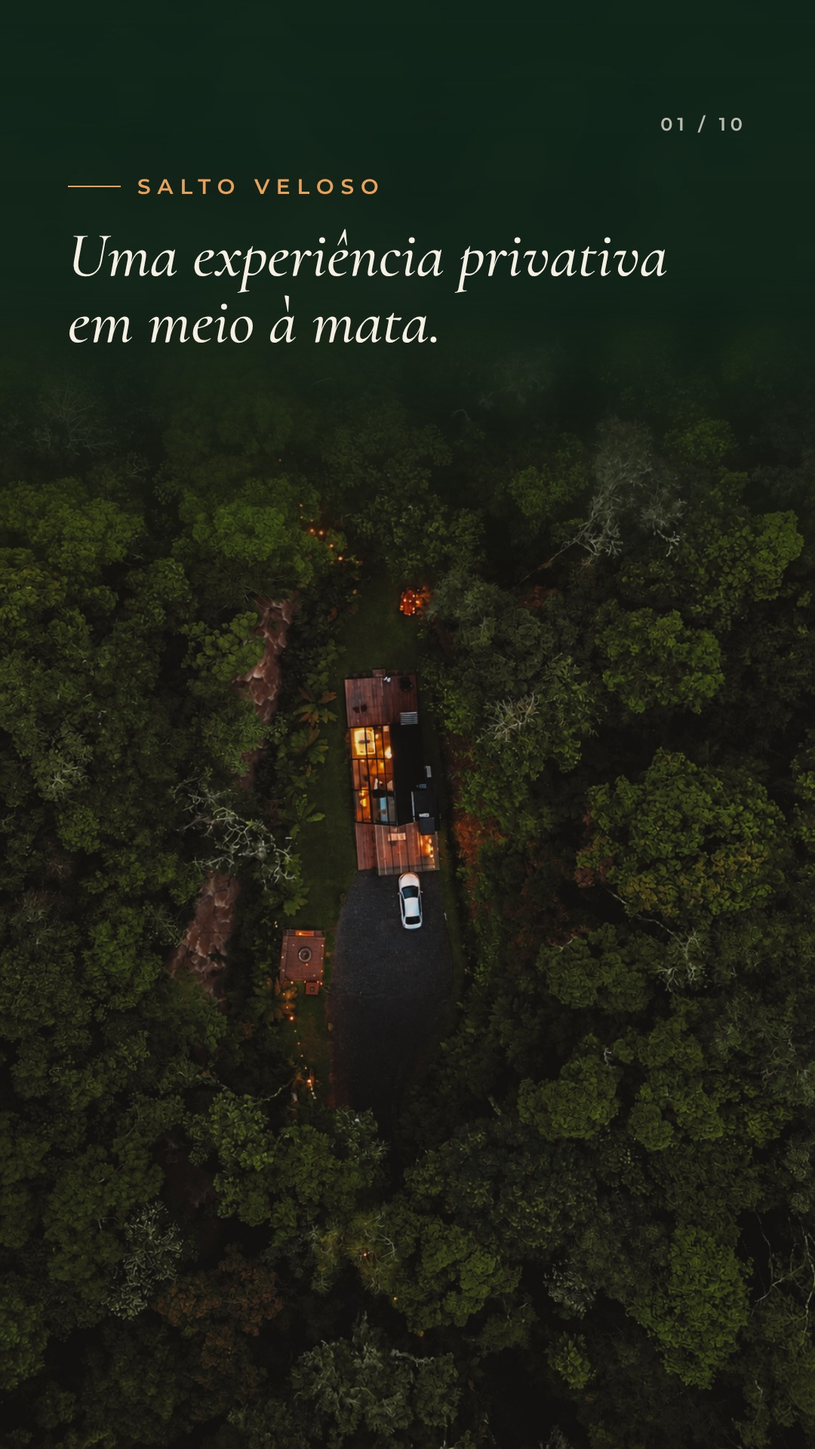
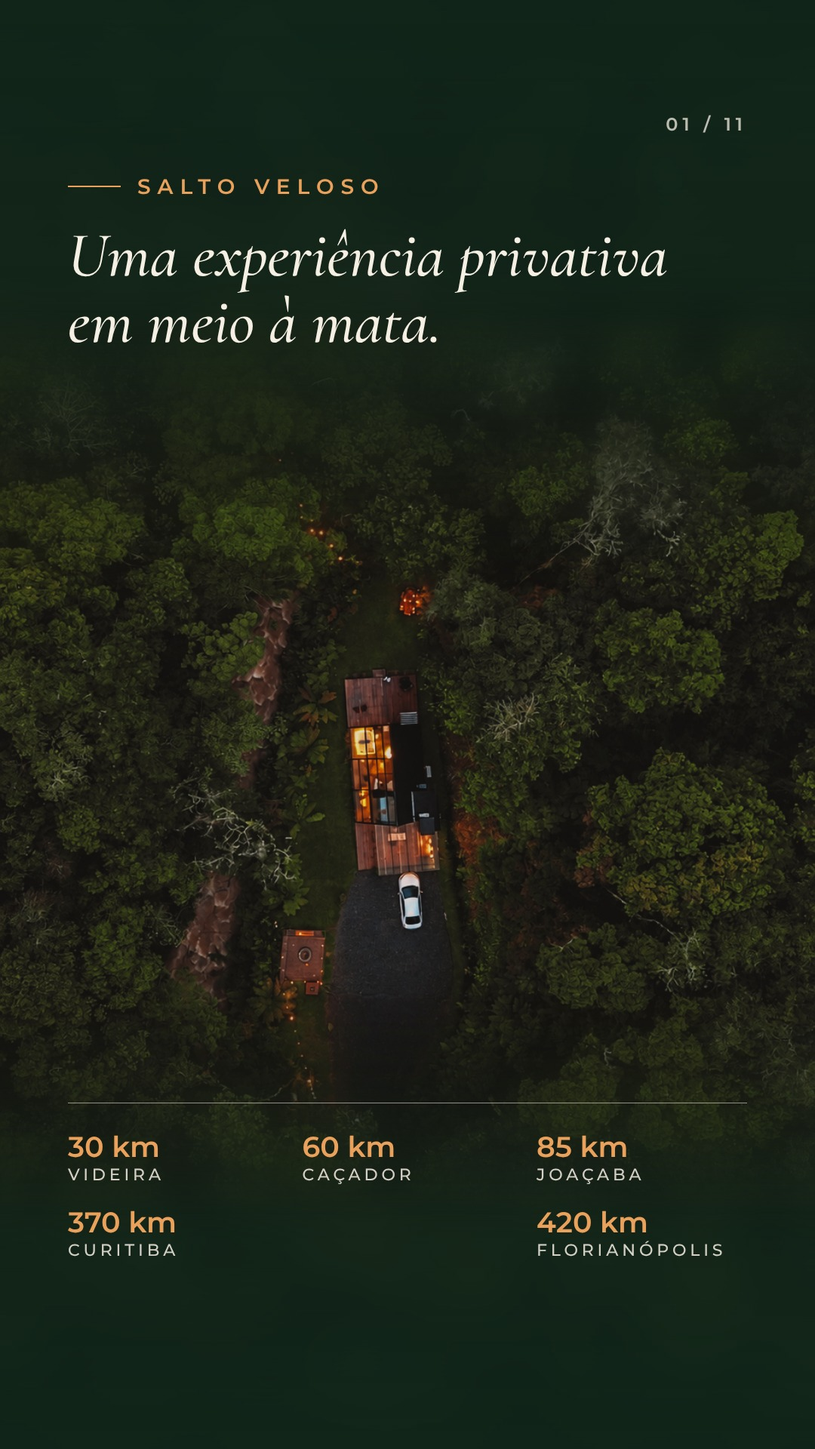
Stories: distâncias no 1, novo texto no 2, foto descida no 3, risoto e pizza separados, 10 sem CTA
Claude-Session: https://claude.ai/code/session_01DGaSmMXhRVQXAQK6gDFrFo

diff --git a/stories-cabana/html/story-11.html b/stories-cabana/html/story-11.html
@@ -1,0 +1,46 @@
+<!doctype html><html><head><meta charset="utf-8"><style>
+@import url('https://fonts.googleapis.com/css2?family=Cormorant+Garamond:ital,wght@0,500;1,500;1,600&family=Montserrat:wght@500;600&display=block');
+* { margin:0; padding:0; box-sizing:border-box; }
+html, body { width:1080px; height:1920px; overflow:hidden; background:#0f1a14; }
+.bg { position:absolute; inset:0; width:100%; height:100%; object-fit:cover; }
+
+/* faixa com desfoque verde */
+.blur { position:absolute; left:0; right:0; height:820px;
+  backdrop-filter: blur(26px) saturate(1.1); -webkit-backdrop-filter: blur(26px) saturate(1.1); }
+.blur.top { top:0;
+  background:linear-gradient(180deg, rgba(16,38,26,.92) 0%, rgba(16,38,26,.78) 45%, rgba(16,38,26,0) 100%);
+  -webkit-mask-image:linear-gradient(180deg,#000 0%,#000 50%,transparent 100%); mask-image:linear-gradient(180deg,#000 0%,#000 50%,transparent 100%); }
+.blur.low { bottom:0;
+  background:linear-gradient(0deg, rgba(16,38,26,.92) 0%, rgba(16,38,26,.78) 45%, rgba(16,38,26,0) 100%);
+  -webkit-mask-image:linear-gradient(0deg,#000 0%,#000 50%,transparent 100%); mask-image:linear-gradient(0deg,#000 0%,#000 50%,transparent 100%); }
+
+.box { position:absolute; left:90px; right:90px; color:#F6EFE4; }
+.box.top { top:230px; }
+.box.low { bottom:300px; }
+.kicker { font-family:'Montserrat',sans-serif; font-weight:600; font-size:28px; letter-spacing:.32em;
+  text-transform:uppercase; color:#E9A15B; display:flex; align-items:center; gap:22px; margin-bottom:30px; }
+.kicker::before { content:''; width:70px; height:2px; background:#E9A15B; }
+h1 { font-family:'Cormorant Garamond',serif; font-style:italic; font-weight:500; font-size:84px; line-height:1.05; }
+p { font-family:'Montserrat',sans-serif; font-weight:500; font-size:34px; line-height:1.4;
+  margin-top:30px; color:rgba(246,239,228,.88); }
+.count { position:absolute; top:150px; right:90px; font-family:'Montserrat',sans-serif; font-weight:600;
+  font-size:24px; letter-spacing:.25em; color:rgba(246,239,228,.75); }
+.cta { display:inline-flex; margin-top:38px; padding:22px 38px; border-radius:60px; background:#E9A15B;
+  color:#1B140D; font-family:'Montserrat',sans-serif; font-weight:600; font-size:28px;
+  letter-spacing:.14em; text-transform:uppercase; }
+.rodape { position:absolute; left:90px; right:90px; bottom:250px; color:#F6EFE4; }
+.rodape .linha { height:1px; background:rgba(246,239,228,.55); margin-bottom:34px; }
+.rodape .cidades { display:flex; flex-wrap:wrap; justify-content:space-between; row-gap:26px; }
+.rodape .c { width:31%; font-family:'Montserrat',sans-serif; }
+.rodape .c b { display:block; font-weight:600; font-size:38px; color:#E9A15B; }
+.rodape .c span { font-weight:500; font-size:22px; letter-spacing:.22em; text-transform:uppercase; color:rgba(246,239,228,.85); }
+.inset { position:absolute; left:60px; bottom:170px; width:290px; height:290px; object-fit:cover;
+  border-radius:10px; border:6px solid #F6EFE4; box-shadow:0 18px 50px rgba(0,0,0,.45); transform:rotate(-3deg); }
+</style></head><body>
+<img class="bg" src="file:///home/user/Jean-Radeski-/stories-cabana/fotos/banheira.jpg" style="object-position:center 70%;transform:translateY(0px)">
+
+<div class="blur top" style="height:820px"></div>
+
+<div class="count">11 / 11</div>
+<div class="box top"><div class="kicker">Só vocês dois</div><h1>Entre samambaias,<br>sem pressa.</h1></div>
+</body></html>

diff --git a/stories-cabana/html/story-01.html b/stories-cabana/html/story-01.html
@@ -28,12 +28,19 @@ p { font-family:'Montserrat',sans-serif; font-weight:500; font-size:34px; line-h
 .cta { display:inline-flex; margin-top:38px; padding:22px 38px; border-radius:60px; background:#E9A15B;
   color:#1B140D; font-family:'Montserrat',sans-serif; font-weight:600; font-size:28px;
   letter-spacing:.14em; text-transform:uppercase; }
+.rodape { position:absolute; left:90px; right:90px; bottom:250px; color:#F6EFE4; }
+.rodape .linha { height:1px; background:rgba(246,239,228,.55); margin-bottom:34px; }
+.rodape .cidades { display:flex; flex-wrap:wrap; justify-content:space-between; row-gap:26px; }
+.rodape .c { width:31%; font-family:'Montserrat',sans-serif; }
+.rodape .c b { display:block; font-weight:600; font-size:38px; color:#E9A15B; }
+.rodape .c span { font-weight:500; font-size:22px; letter-spacing:.22em; text-transform:uppercase; color:rgba(246,239,228,.85); }
 .inset { position:absolute; left:60px; bottom:170px; width:290px; height:290px; object-fit:cover;
   border-radius:10px; border:6px solid #F6EFE4; box-shadow:0 18px 50px rgba(0,0,0,.45); transform:rotate(-3deg); }
 </style></head><body>
-<img class="bg" src="file:///home/user/Jean-Radeski-/stories-cabana/fotos/drone.jpg" style="object-position:center">
+<img class="bg" src="file:///home/user/Jean-Radeski-/stories-cabana/fotos/drone.jpg" style="object-position:center;transform:translateY(0px)">
+<div class="blur low" style="height:620px"></div><div class="rodape"><div class="linha"></div><div class="cidades"><div class="c"><b>30 km</b><span>Videira</span></div><div class="c"><b>60 km</b><span>Caçador</span></div><div class="c"><b>85 km</b><span>Joaçaba</span></div><div class="c"><b>370 km</b><span>Curitiba</span></div><div class="c"><b>420 km</b><span>Florianópolis</span></div></div></div>
 <div class="blur top" style="height:820px"></div>
 
-<div class="count">01 / 10</div>
+<div class="count">01 / 11</div>
 <div class="box top"><div class="kicker">Salto Veloso</div><h1>Uma experiência privativa<br>em meio à mata.</h1></div>
 </body></html>

diff --git a/stories-cabana/html/story-10.html b/stories-cabana/html/story-10.html
@@ -28,12 +28,19 @@ p { font-family:'Montserrat',sans-serif; font-weight:500; font-size:34px; line-h
 .cta { display:inline-flex; margin-top:38px; padding:22px 38px; border-radius:60px; background:#E9A15B;
   color:#1B140D; font-family:'Montserrat',sans-serif; font-weight:600; font-size:28px;
   letter-spacing:.14em; text-transform:uppercase; }
+.rodape { position:absolute; left:90px; right:90px; bottom:250px; color:#F6EFE4; }
+.rodape .linha { height:1px; background:rgba(246,239,228,.55); margin-bottom:34px; }
+.rodape .cidades { display:flex; flex-wrap:wrap; justify-content:space-between; row-gap:26px; }
+.rodape .c { width:31%; font-family:'Montserrat',sans-serif; }
+.rodape .c b { display:block; font-weight:600; font-size:38px; color:#E9A15B; }
+.rodape .c span { font-weight:500; font-size:22px; letter-spacing:.22em; text-transform:uppercase; color:rgba(246,239,228,.85); }
 .inset { position:absolute; left:60px; bottom:170px; width:290px; height:290px; object-fit:cover;
   border-radius:10px; border:6px solid #F6EFE4; box-shadow:0 18px 50px rgba(0,0,0,.45); transform:rotate(-3deg); }
 </style></head><body>
-<img class="bg" src="file:///home/user/Jean-Radeski-/stories-cabana/fotos/banheira.jpg" style="object-position:center 70%">
+<img class="bg" src="file:///home/user/Jean-Radeski-/stories-cabana/fotos/spa-mata.jpg" style="object-position:center 70%;transform:translateY(0px)">
+
 <div class="blur top" style="height:820px"></div>
 
-<div class="count">10 / 10</div>
-<div class="box top"><div class="kicker">Só vocês dois</div><h1>Entre samambaias,<br>sem pressa.</h1><p>No próximo story: o tour completo</p><div class="cta">Toque pra ver &nbsp;→</div></div>
+<div class="count">10 / 11</div>
+<div class="box top"><div class="kicker">Spa na mata</div><h1>Ofurô e cama suspensa,<br>imerso na mata.</h1><p>Ao lado do rio, ao som das quedas d'água.</p></div>
 </body></html>

diff --git a/stories-cabana/html/story-07.html b/stories-cabana/html/story-07.html
@@ -28,12 +28,19 @@ p { font-family:'Montserrat',sans-serif; font-weight:500; font-size:34px; line-h
 .cta { display:inline-flex; margin-top:38px; padding:22px 38px; border-radius:60px; background:#E9A15B;
   color:#1B140D; font-family:'Montserrat',sans-serif; font-weight:600; font-size:28px;
   letter-spacing:.14em; text-transform:uppercase; }
+.rodape { position:absolute; left:90px; right:90px; bottom:250px; color:#F6EFE4; }
+.rodape .linha { height:1px; background:rgba(246,239,228,.55); margin-bottom:34px; }
+.rodape .cidades { display:flex; flex-wrap:wrap; justify-content:space-between; row-gap:26px; }
+.rodape .c { width:31%; font-family:'Montserrat',sans-serif; }
+.rodape .c b { display:block; font-weight:600; font-size:38px; color:#E9A15B; }
+.rodape .c span { font-weight:500; font-size:22px; letter-spacing:.22em; text-transform:uppercase; color:rgba(246,239,228,.85); }
 .inset { position:absolute; left:60px; bottom:170px; width:290px; height:290px; object-fit:cover;
   border-radius:10px; border:6px solid #F6EFE4; box-shadow:0 18px 50px rgba(0,0,0,.45); transform:rotate(-3deg); }
 </style></head><body>
-<img class="bg" src="file:///home/user/Jean-Radeski-/stories-cabana/fotos/pizza.jpg" style="object-position:center 75%">
+<img class="bg" src="file:///home/user/Jean-Radeski-/stories-cabana/fotos/pizza.jpg" style="object-position:center 75%;transform:translateY(0px)">
+
 <div class="blur top" style="height:820px"></div>
-<img class="inset" src="file:///home/user/Jean-Radeski-/stories-cabana/fotos/risoto.jpg">
-<div class="count">07 / 10</div>
-<div class="box top"><div class="kicker">Cardápio da cabana</div><h1>Opções congeladas, deliciosas<br>e prontas para fazer.</h1></div>
+
+<div class="count">07 / 11</div>
+<div class="box top"><div class="kicker">Cardápio da cabana</div><h1>Opções congeladas<br>e deliciosas.</h1></div>
 </body></html>

diff --git a/stories-cabana/html/story-09.html b/stories-cabana/html/story-09.html
@@ -28,12 +28,19 @@ p { font-family:'Montserrat',sans-serif; font-weight:500; font-size:34px; line-h
 .cta { display:inline-flex; margin-top:38px; padding:22px 38px; border-radius:60px; background:#E9A15B;
   color:#1B140D; font-family:'Montserrat',sans-serif; font-weight:600; font-size:28px;
   letter-spacing:.14em; text-transform:uppercase; }
+.rodape { position:absolute; left:90px; right:90px; bottom:250px; color:#F6EFE4; }
+.rodape .linha { height:1px; background:rgba(246,239,228,.55); margin-bottom:34px; }
+.rodape .cidades { display:flex; flex-wrap:wrap; justify-content:space-between; row-gap:26px; }
+.rodape .c { width:31%; font-family:'Montserrat',sans-serif; }
+.rodape .c b { display:block; font-weight:600; font-size:38px; color:#E9A15B; }
+.rodape .c span { font-weight:500; font-size:22px; letter-spacing:.22em; text-transform:uppercase; color:rgba(246,239,228,.85); }
 .inset { position:absolute; left:60px; bottom:170px; width:290px; height:290px; object-fit:cover;
   border-radius:10px; border:6px solid #F6EFE4; box-shadow:0 18px 50px rgba(0,0,0,.45); transform:rotate(-3deg); }
 </style></head><body>
-<img class="bg" src="file:///home/user/Jean-Radeski-/stories-cabana/fotos/spa-mata.jpg" style="object-position:center 70%">
-<div class="blur top" style="height:820px"></div>
+<img class="bg" src="file:///home/user/Jean-Radeski-/stories-cabana/fotos/lareira.jpg" style="object-position:center 60%;transform:translateY(0px)">
 
-<div class="count">09 / 10</div>
-<div class="box top"><div class="kicker">Spa na mata</div><h1>Ofurô e cama suspensa,<br>imerso na mata.</h1><p>Ao lado do rio, ao som das quedas d'água.</p></div>
+<div class="blur low" style="height:620px"></div>
+
+<div class="count">09 / 11</div>
+<div class="box low"><div class="kicker">Lareira</div><h1>Detalhes que encantam.</h1></div>
 </body></html>

diff --git a/stories-cabana/html/story-02.html b/stories-cabana/html/story-02.html
@@ -28,12 +28,19 @@ p { font-family:'Montserrat',sans-serif; font-weight:500; font-size:34px; line-h
 .cta { display:inline-flex; margin-top:38px; padding:22px 38px; border-radius:60px; background:#E9A15B;
   color:#1B140D; font-family:'Montserrat',sans-serif; font-weight:600; font-size:28px;
   letter-spacing:.14em; text-transform:uppercase; }
+.rodape { position:absolute; left:90px; right:90px; bottom:250px; color:#F6EFE4; }
+.rodape .linha { height:1px; background:rgba(246,239,228,.55); margin-bottom:34px; }
+.rodape .cidades { display:flex; flex-wrap:wrap; justify-content:space-between; row-gap:26px; }
+.rodape .c { width:31%; font-family:'Montserrat',sans-serif; }
+.rodape .c b { display:block; font-weight:600; font-size:38px; color:#E9A15B; }
+.rodape .c span { font-weight:500; font-size:22px; letter-spacing:.22em; text-transform:uppercase; color:rgba(246,239,228,.85); }
 .inset { position:absolute; left:60px; bottom:170px; width:290px; height:290px; object-fit:cover;
   border-radius:10px; border:6px solid #F6EFE4; box-shadow:0 18px 50px rgba(0,0,0,.45); transform:rotate(-3deg); }
 </style></head><body>
-<img class="bg" src="file:///home/user/Jean-Radeski-/stories-cabana/fotos/ponte.jpg" style="object-position:center 40%">
+<img class="bg" src="file:///home/user/Jean-Radeski-/stories-cabana/fotos/ponte.jpg" style="object-position:center 40%;transform:translateY(0px)">
+
 <div class="blur low" style="height:820px"></div>
 
-<div class="count">02 / 10</div>
-<div class="box low"><div class="kicker">O caminho</div><h1>Atravesse a ponte.</h1><p>O mundo lá fora fica pra trás.</p></div>
+<div class="count">02 / 11</div>
+<div class="box low"><div class="kicker">O caminho</div><h1>Atravesse a ponte.</h1><p>Todo o ambiente cercado pela natureza.</p></div>
 </body></html>

diff --git a/stories-cabana/html/story-08.html b/stories-cabana/html/story-08.html
@@ -28,12 +28,19 @@ p { font-family:'Montserrat',sans-serif; font-weight:500; font-size:34px; line-h
 .cta { display:inline-flex; margin-top:38px; padding:22px 38px; border-radius:60px; background:#E9A15B;
   color:#1B140D; font-family:'Montserrat',sans-serif; font-weight:600; font-size:28px;
   letter-spacing:.14em; text-transform:uppercase; }
+.rodape { position:absolute; left:90px; right:90px; bottom:250px; color:#F6EFE4; }
+.rodape .linha { height:1px; background:rgba(246,239,228,.55); margin-bottom:34px; }
+.rodape .cidades { display:flex; flex-wrap:wrap; justify-content:space-between; row-gap:26px; }
+.rodape .c { width:31%; font-family:'Montserrat',sans-serif; }
+.rodape .c b { display:block; font-weight:600; font-size:38px; color:#E9A15B; }
+.rodape .c span { font-weight:500; font-size:22px; letter-spacing:.22em; text-transform:uppercase; color:rgba(246,239,228,.85); }
 .inset { position:absolute; left:60px; bottom:170px; width:290px; height:290px; object-fit:cover;
   border-radius:10px; border:6px solid #F6EFE4; box-shadow:0 18px 50px rgba(0,0,0,.45); transform:rotate(-3deg); }
 </style></head><body>
-<img class="bg" src="file:///home/user/Jean-Radeski-/stories-cabana/fotos/lareira.jpg" style="object-position:center 60%">
-<div class="blur low" style="height:620px"></div>
+<img class="bg" src="file:///home/user/Jean-Radeski-/stories-cabana/fotos/risoto.jpg" style="object-position:center 60%;transform:translateY(0px)">
 
-<div class="count">08 / 10</div>
-<div class="box low"><div class="kicker">Lareira</div><h1>Detalhes que encantam.</h1></div>
+<div class="blur top" style="height:820px"></div>
+
+<div class="count">08 / 11</div>
+<div class="box top"><div class="kicker">Praticidade</div><h1>Opções práticas e<br>prontas para fazer.</h1></div>
 </body></html>

diff --git a/stories-cabana/html/story-03.html b/stories-cabana/html/story-03.html
@@ -28,12 +28,19 @@ p { font-family:'Montserrat',sans-serif; font-weight:500; font-size:34px; line-h
 .cta { display:inline-flex; margin-top:38px; padding:22px 38px; border-radius:60px; background:#E9A15B;
   color:#1B140D; font-family:'Montserrat',sans-serif; font-weight:600; font-size:28px;
   letter-spacing:.14em; text-transform:uppercase; }
+.rodape { position:absolute; left:90px; right:90px; bottom:250px; color:#F6EFE4; }
+.rodape .linha { height:1px; background:rgba(246,239,228,.55); margin-bottom:34px; }
+.rodape .cidades { display:flex; flex-wrap:wrap; justify-content:space-between; row-gap:26px; }
+.rodape .c { width:31%; font-family:'Montserrat',sans-serif; }
+.rodape .c b { display:block; font-weight:600; font-size:38px; color:#E9A15B; }
+.rodape .c span { font-weight:500; font-size:22px; letter-spacing:.22em; text-transform:uppercase; color:rgba(246,239,228,.85); }
 .inset { position:absolute; left:60px; bottom:170px; width:290px; height:290px; object-fit:cover;
   border-radius:10px; border:6px solid #F6EFE4; box-shadow:0 18px 50px rgba(0,0,0,.45); transform:rotate(-3deg); }
 </style></head><body>
-<img class="bg" src="file:///home/user/Jean-Radeski-/stories-cabana/fotos/cabana-noite.jpg" style="object-position:center 60%">
+<img class="bg" src="file:///home/user/Jean-Radeski-/stories-cabana/fotos/cabana-noite.jpg" style="object-position:center 60%;transform:translateY(200px)">
+
 <div class="blur top" style="height:820px"></div>
 
-<div class="count">03 / 10</div>
+<div class="count">03 / 11</div>
 <div class="box top"><div class="kicker">Arquitetura A-frame</div><h1>Moderna, em vidro,<br>refletindo suas luzes quentes.</h1></div>
 </body></html>

diff --git a/stories-cabana/html/story-04.html b/stories-cabana/html/story-04.html
@@ -28,12 +28,19 @@ p { font-family:'Montserrat',sans-serif; font-weight:500; font-size:34px; line-h
 .cta { display:inline-flex; margin-top:38px; padding:22px 38px; border-radius:60px; background:#E9A15B;
   color:#1B140D; font-family:'Montserrat',sans-serif; font-weight:600; font-size:28px;
   letter-spacing:.14em; text-transform:uppercase; }
+.rodape { position:absolute; left:90px; right:90px; bottom:250px; color:#F6EFE4; }
+.rodape .linha { height:1px; background:rgba(246,239,228,.55); margin-bottom:34px; }
+.rodape .cidades { display:flex; flex-wrap:wrap; justify-content:space-between; row-gap:26px; }
+.rodape .c { width:31%; font-family:'Montserrat',sans-serif; }
+.rodape .c b { display:block; font-weight:600; font-size:38px; color:#E9A15B; }
+.rodape .c span { font-weight:500; font-size:22px; letter-spacing:.22em; text-transform:uppercase; color:rgba(246,239,228,.85); }
 .inset { position:absolute; left:60px; bottom:170px; width:290px; height:290px; object-fit:cover;
   border-radius:10px; border:6px solid #F6EFE4; box-shadow:0 18px 50px rgba(0,0,0,.45); transform:rotate(-3deg); }
 </style></head><body>
-<img class="bg" src="file:///home/user/Jean-Radeski-/stories-cabana/fotos/cama.jpg" style="object-position:center 60%">
+<img class="bg" src="file:///home/user/Jean-Radeski-/stories-cabana/fotos/cama.jpg" style="object-position:center 60%;transform:translateY(0px)">
+
 <div class="blur top" style="height:820px"></div>
 
-<div class="count">04 / 10</div>
+<div class="count">04 / 11</div>
 <div class="box top"><div class="kicker">Futon com massagem</div><h1>Um futon perfeito, com vista<br>privilegiada para a mata.</h1></div>
 </body></html>

diff --git a/stories-cabana/html/story-06.html b/stories-cabana/html/story-06.html
@@ -28,12 +28,19 @@ p { font-family:'Montserrat',sans-serif; font-weight:500; font-size:34px; line-h
 .cta { display:inline-flex; margin-top:38px; padding:22px 38px; border-radius:60px; background:#E9A15B;
   color:#1B140D; font-family:'Montserrat',sans-serif; font-weight:600; font-size:28px;
   letter-spacing:.14em; text-transform:uppercase; }
+.rodape { position:absolute; left:90px; right:90px; bottom:250px; color:#F6EFE4; }
+.rodape .linha { height:1px; background:rgba(246,239,228,.55); margin-bottom:34px; }
+.rodape .cidades { display:flex; flex-wrap:wrap; justify-content:space-between; row-gap:26px; }
+.rodape .c { width:31%; font-family:'Montserrat',sans-serif; }
+.rodape .c b { display:block; font-weight:600; font-size:38px; color:#E9A15B; }
+.rodape .c span { font-weight:500; font-size:22px; letter-spacing:.22em; text-transform:uppercase; color:rgba(246,239,228,.85); }
 .inset { position:absolute; left:60px; bottom:170px; width:290px; height:290px; object-fit:cover;
   border-radius:10px; border:6px solid #F6EFE4; box-shadow:0 18px 50px rgba(0,0,0,.45); transform:rotate(-3deg); }
 </style></head><body>
-<img class="bg" src="file:///home/user/Jean-Radeski-/stories-cabana/fotos/cozinha.jpg" style="object-position:center 70%">
+<img class="bg" src="file:///home/user/Jean-Radeski-/stories-cabana/fotos/cozinha.jpg" style="object-position:center 70%;transform:translateY(0px)">
+
 <div class="blur top" style="height:820px"></div>
 
-<div class="count">06 / 10</div>
+<div class="count">06 / 11</div>
 <div class="box top"><div class="kicker">Cozinha completa</div><h1>Para você não se<br>preocupar com nada.</h1></div>
 </body></html>

diff --git a/stories-cabana/html/story-05.html b/stories-cabana/html/story-05.html
@@ -28,12 +28,19 @@ p { font-family:'Montserrat',sans-serif; font-weight:500; font-size:34px; line-h
 .cta { display:inline-flex; margin-top:38px; padding:22px 38px; border-radius:60px; background:#E9A15B;
   color:#1B140D; font-family:'Montserrat',sans-serif; font-weight:600; font-size:28px;
   letter-spacing:.14em; text-transform:uppercase; }
+.rodape { position:absolute; left:90px; right:90px; bottom:250px; color:#F6EFE4; }
+.rodape .linha { height:1px; background:rgba(246,239,228,.55); margin-bottom:34px; }
+.rodape .cidades { display:flex; flex-wrap:wrap; justify-content:space-between; row-gap:26px; }
+.rodape .c { width:31%; font-family:'Montserrat',sans-serif; }
+.rodape .c b { display:block; font-weight:600; font-size:38px; color:#E9A15B; }
+.rodape .c span { font-weight:500; font-size:22px; letter-spacing:.22em; text-transform:uppercase; color:rgba(246,239,228,.85); }
 .inset { position:absolute; left:60px; bottom:170px; width:290px; height:290px; object-fit:cover;
   border-radius:10px; border:6px solid #F6EFE4; box-shadow:0 18px 50px rgba(0,0,0,.45); transform:rotate(-3deg); }
 </style></head><body>
-<img class="bg" src="file:///home/user/Jean-Radeski-/stories-cabana/fotos/hidro.jpg" style="object-position:center 30%">
+<img class="bg" src="file:///home/user/Jean-Radeski-/stories-cabana/fotos/hidro.jpg" style="object-position:center 30%;transform:translateY(0px)">
+
 <div class="blur low" style="height:820px"></div>
 
-<div class="count">05 / 10</div>
+<div class="count">05 / 11</div>
 <div class="box low"><div class="kicker">Hidromassagem</div><h1>Um banho com<br>vista para a floresta.</h1></div>
 </body></html>

diff --git a/stories-cabana/gerar.py b/stories-cabana/gerar.py
@@ -16,11 +16,13 @@ HTML.mkdir(exist_ok=True)
 # foto, foco da foto, faixa ("top"/"low"), chamada pequena, título, apoio, extra
 STORIES = [
     ("drone.jpg", "center", "top", "Salto Veloso",
-     "Uma experiência privativa<br>em meio à mata.", "", {}),
+     "Uma experiência privativa<br>em meio à mata.", "",
+     {"rodape": [("Videira", "30 km"), ("Caçador", "60 km"), ("Joaçaba", "85 km"),
+                 ("Curitiba", "370 km"), ("Florianópolis", "420 km")]}),
     ("ponte.jpg", "center 40%", "low", "O caminho",
-     "Atravesse a ponte.", "O mundo lá fora fica pra trás.", {}),
+     "Atravesse a ponte.", "Todo o ambiente cercado pela natureza.", {}),
     ("cabana-noite.jpg", "center 60%", "top", "Arquitetura A-frame",
-     "Moderna, em vidro,<br>refletindo suas luzes quentes.", "", {}),
+     "Moderna, em vidro,<br>refletindo suas luzes quentes.", "", {"descer": 200}),
     ("cama.jpg", "center 60%", "top", "Futon com massagem",
      "Um futon perfeito, com vista<br>privilegiada para a mata.", "", {}),
     ("hidro.jpg", "center 30%", "low", "Hidromassagem",
@@ -30,13 +32,15 @@ STORIES = [
     ("adega.jpg", "center", "top", "Adega completa",
      "Pra brindar<br>cada momento.", "", {}),
     ("pizza.jpg", "center 75%", "top", "Cardápio da cabana",
-     "Opções congeladas, deliciosas<br>e prontas para fazer.", "", {"inset": "risoto.jpg"}),
+     "Opções congeladas<br>e deliciosas.", "", {}),
+    ("risoto.jpg", "center 60%", "top", "Praticidade",
+     "Opções práticas e<br>prontas para fazer.", "", {}),
     ("lareira.jpg", "center 60%", "low", "Lareira",
      "Detalhes que encantam.", "", {"h": 620}),
     ("spa-mata.jpg", "center 70%", "top", "Spa na mata",
      "Ofurô e cama suspensa,<br>imerso na mata.", "Ao lado do rio, ao som das quedas d'água.", {}),
     ("banheira.jpg", "center 70%", "top", "Só vocês dois",
-     "Entre samambaias,<br>sem pressa.", "No próximo story: o tour completo", {"cta": True}),
+     "Entre samambaias,<br>sem pressa.", "", {}),
 ]
 
 CSS = """
@@ -69,6 +73,12 @@ p { font-family:'Montserrat',sans-serif; font-weight:500; font-size:34px; line-h
 .cta { display:inline-flex; margin-top:38px; padding:22px 38px; border-radius:60px; background:#E9A15B;
   color:#1B140D; font-family:'Montserrat',sans-serif; font-weight:600; font-size:28px;
   letter-spacing:.14em; text-transform:uppercase; }
+.rodape { position:absolute; left:90px; right:90px; bottom:250px; color:#F6EFE4; }
+.rodape .linha { height:1px; background:rgba(246,239,228,.55); margin-bottom:34px; }
+.rodape .cidades { display:flex; flex-wrap:wrap; justify-content:space-between; row-gap:26px; }
+.rodape .c { width:31%; font-family:'Montserrat',sans-serif; }
+.rodape .c b { display:block; font-weight:600; font-size:38px; color:#E9A15B; }
+.rodape .c span { font-weight:500; font-size:22px; letter-spacing:.22em; text-transform:uppercase; color:rgba(246,239,228,.85); }
 .inset { position:absolute; left:60px; bottom:170px; width:290px; height:290px; object-fit:cover;
   border-radius:10px; border:6px solid #F6EFE4; box-shadow:0 18px 50px rgba(0,0,0,.45); transform:rotate(-3deg); }
 """
@@ -77,11 +87,17 @@ p { font-family:'Montserrat',sans-serif; font-weight:500; font-size:34px; line-h
 def html(foto, pos, faixa, kicker, titulo, apoio, extra, n, total):
     apoio_html = f"<p>{apoio}</p>" if apoio else ""
     cta = '<div class="cta">Toque pra ver &nbsp;→</div>' if extra.get("cta") else ""
+    rodape = ""
+    if extra.get("rodape"):
+        cidades = "".join(f'<div class="c"><b>{km}</b><span>{c}</span></div>' for c, km in extra["rodape"])
+        rodape = ('<div class="blur low" style="height:620px"></div>'
+                  f'<div class="rodape"><div class="linha"></div><div class="cidades">{cidades}</div></div>')
     inset = ""
     if extra.get("inset") and (FOTOS / extra["inset"]).exists():
         inset = f'<img class="inset" src="{(FOTOS / extra["inset"]).as_uri()}">'
     return f"""<!doctype html><html><head><meta charset="utf-8"><style>{CSS}</style></head><body>
-<img class="bg" src="{(FOTOS / foto).as_uri()}" style="object-position:{pos}">
+<img class="bg" src="{(FOTOS / foto).as_uri()}" style="object-position:{pos};transform:translateY({extra.get('descer', 0)}px)">
+{rodape}
 <div class="blur {faixa}" style="height:{extra.get('h', 820)}px"></div>
 {inset}
 <div class="count">{n:02d} / {total:02d}</div>
